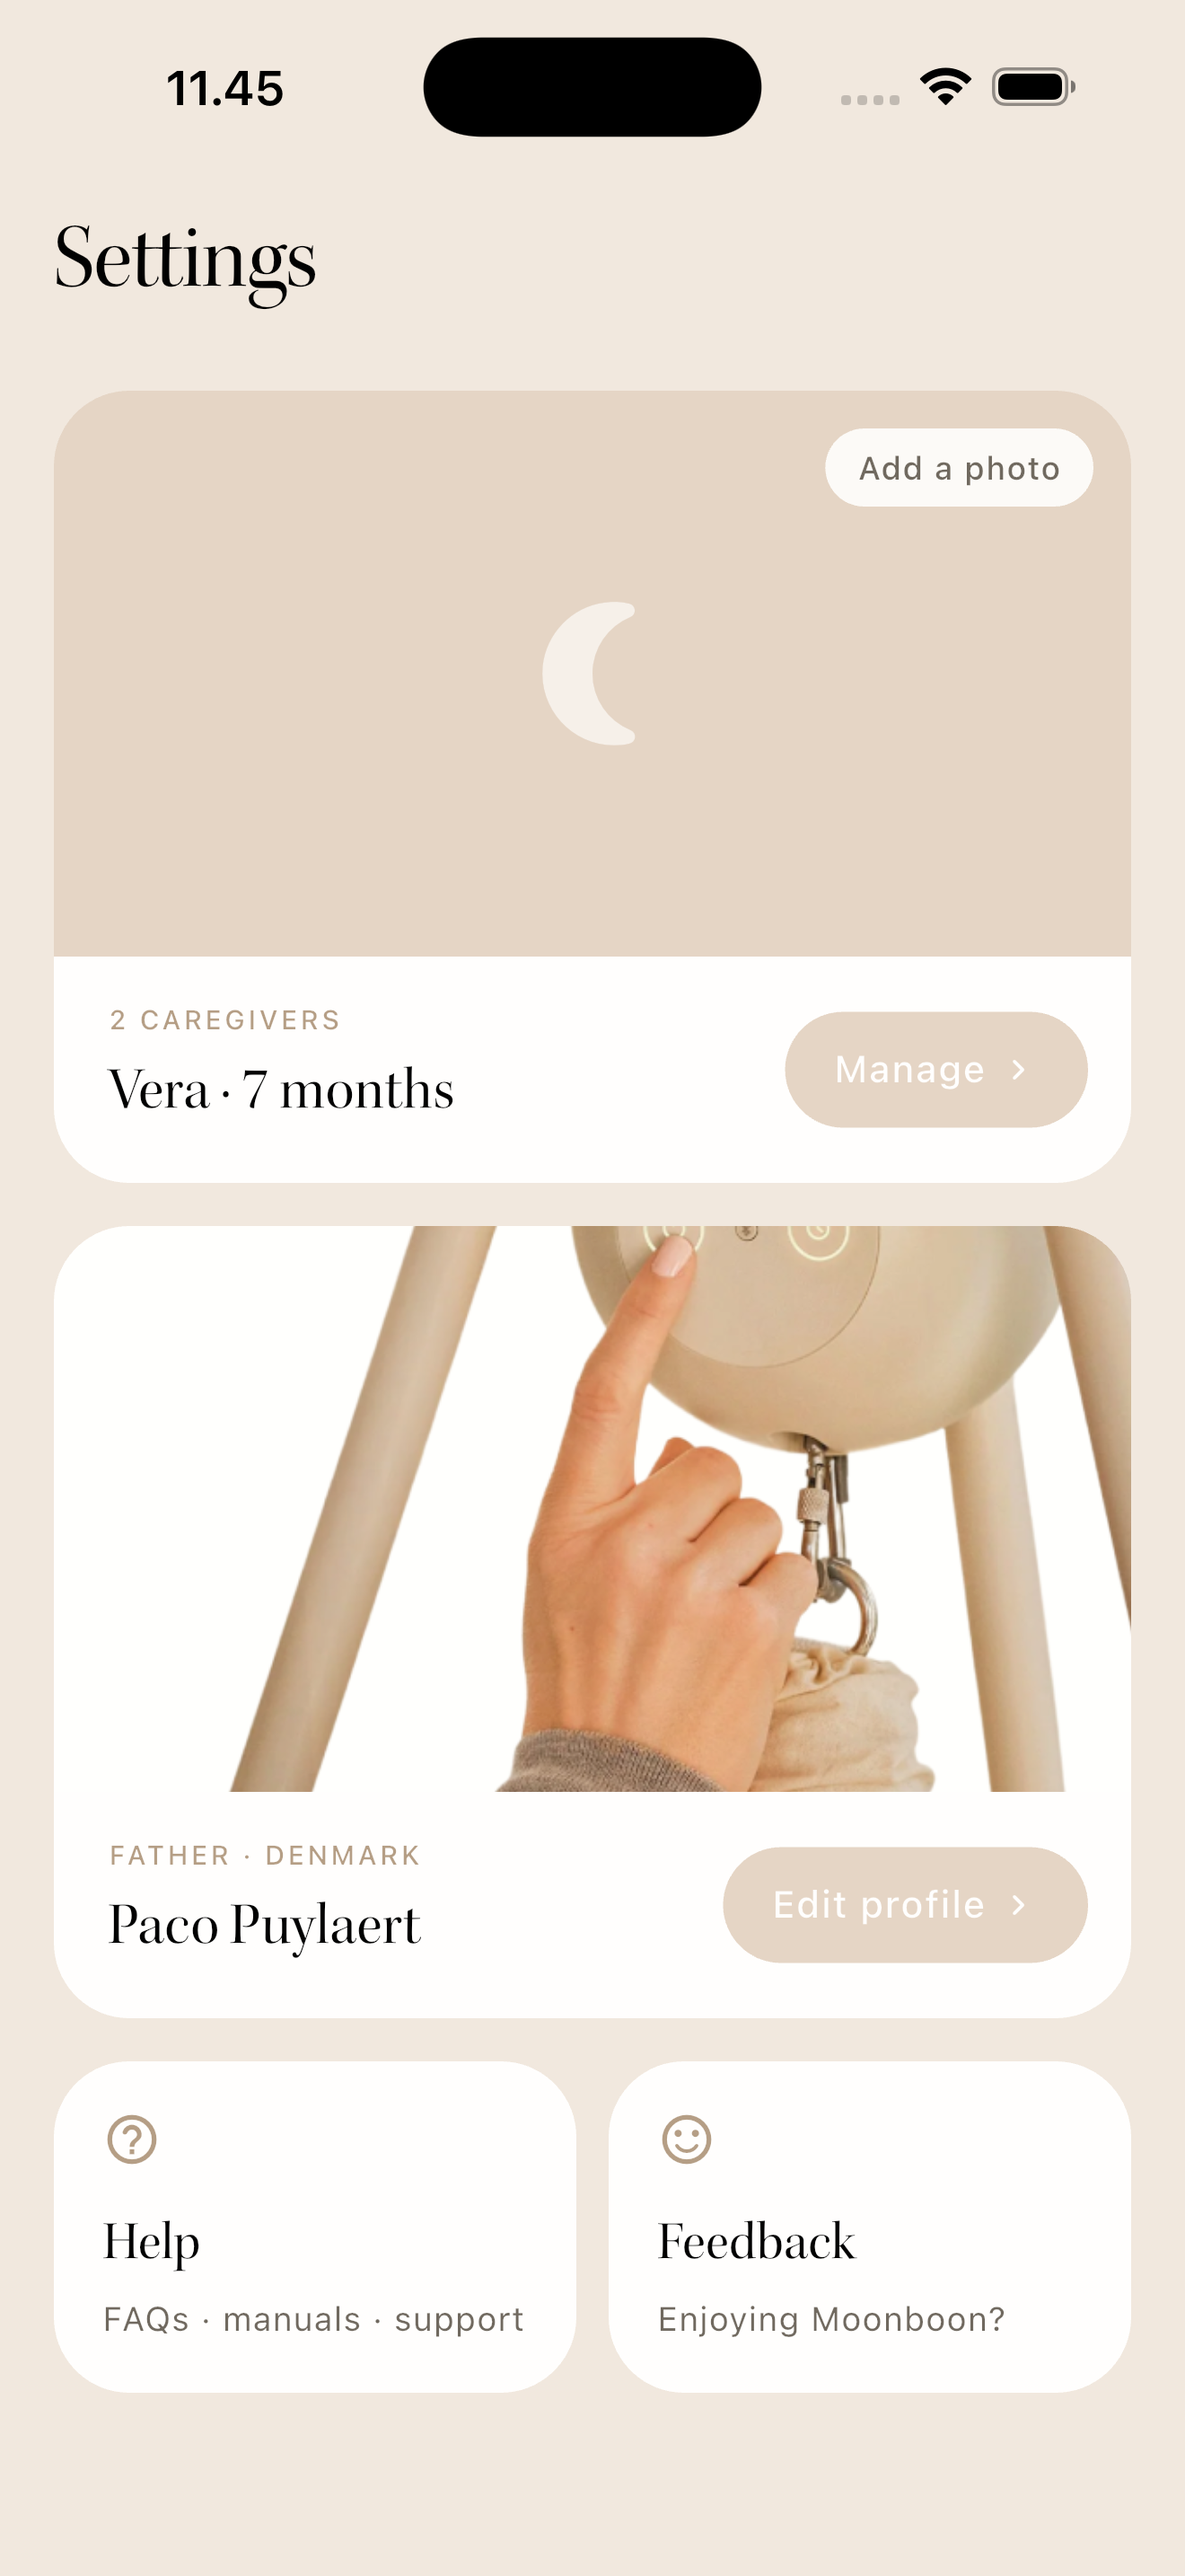
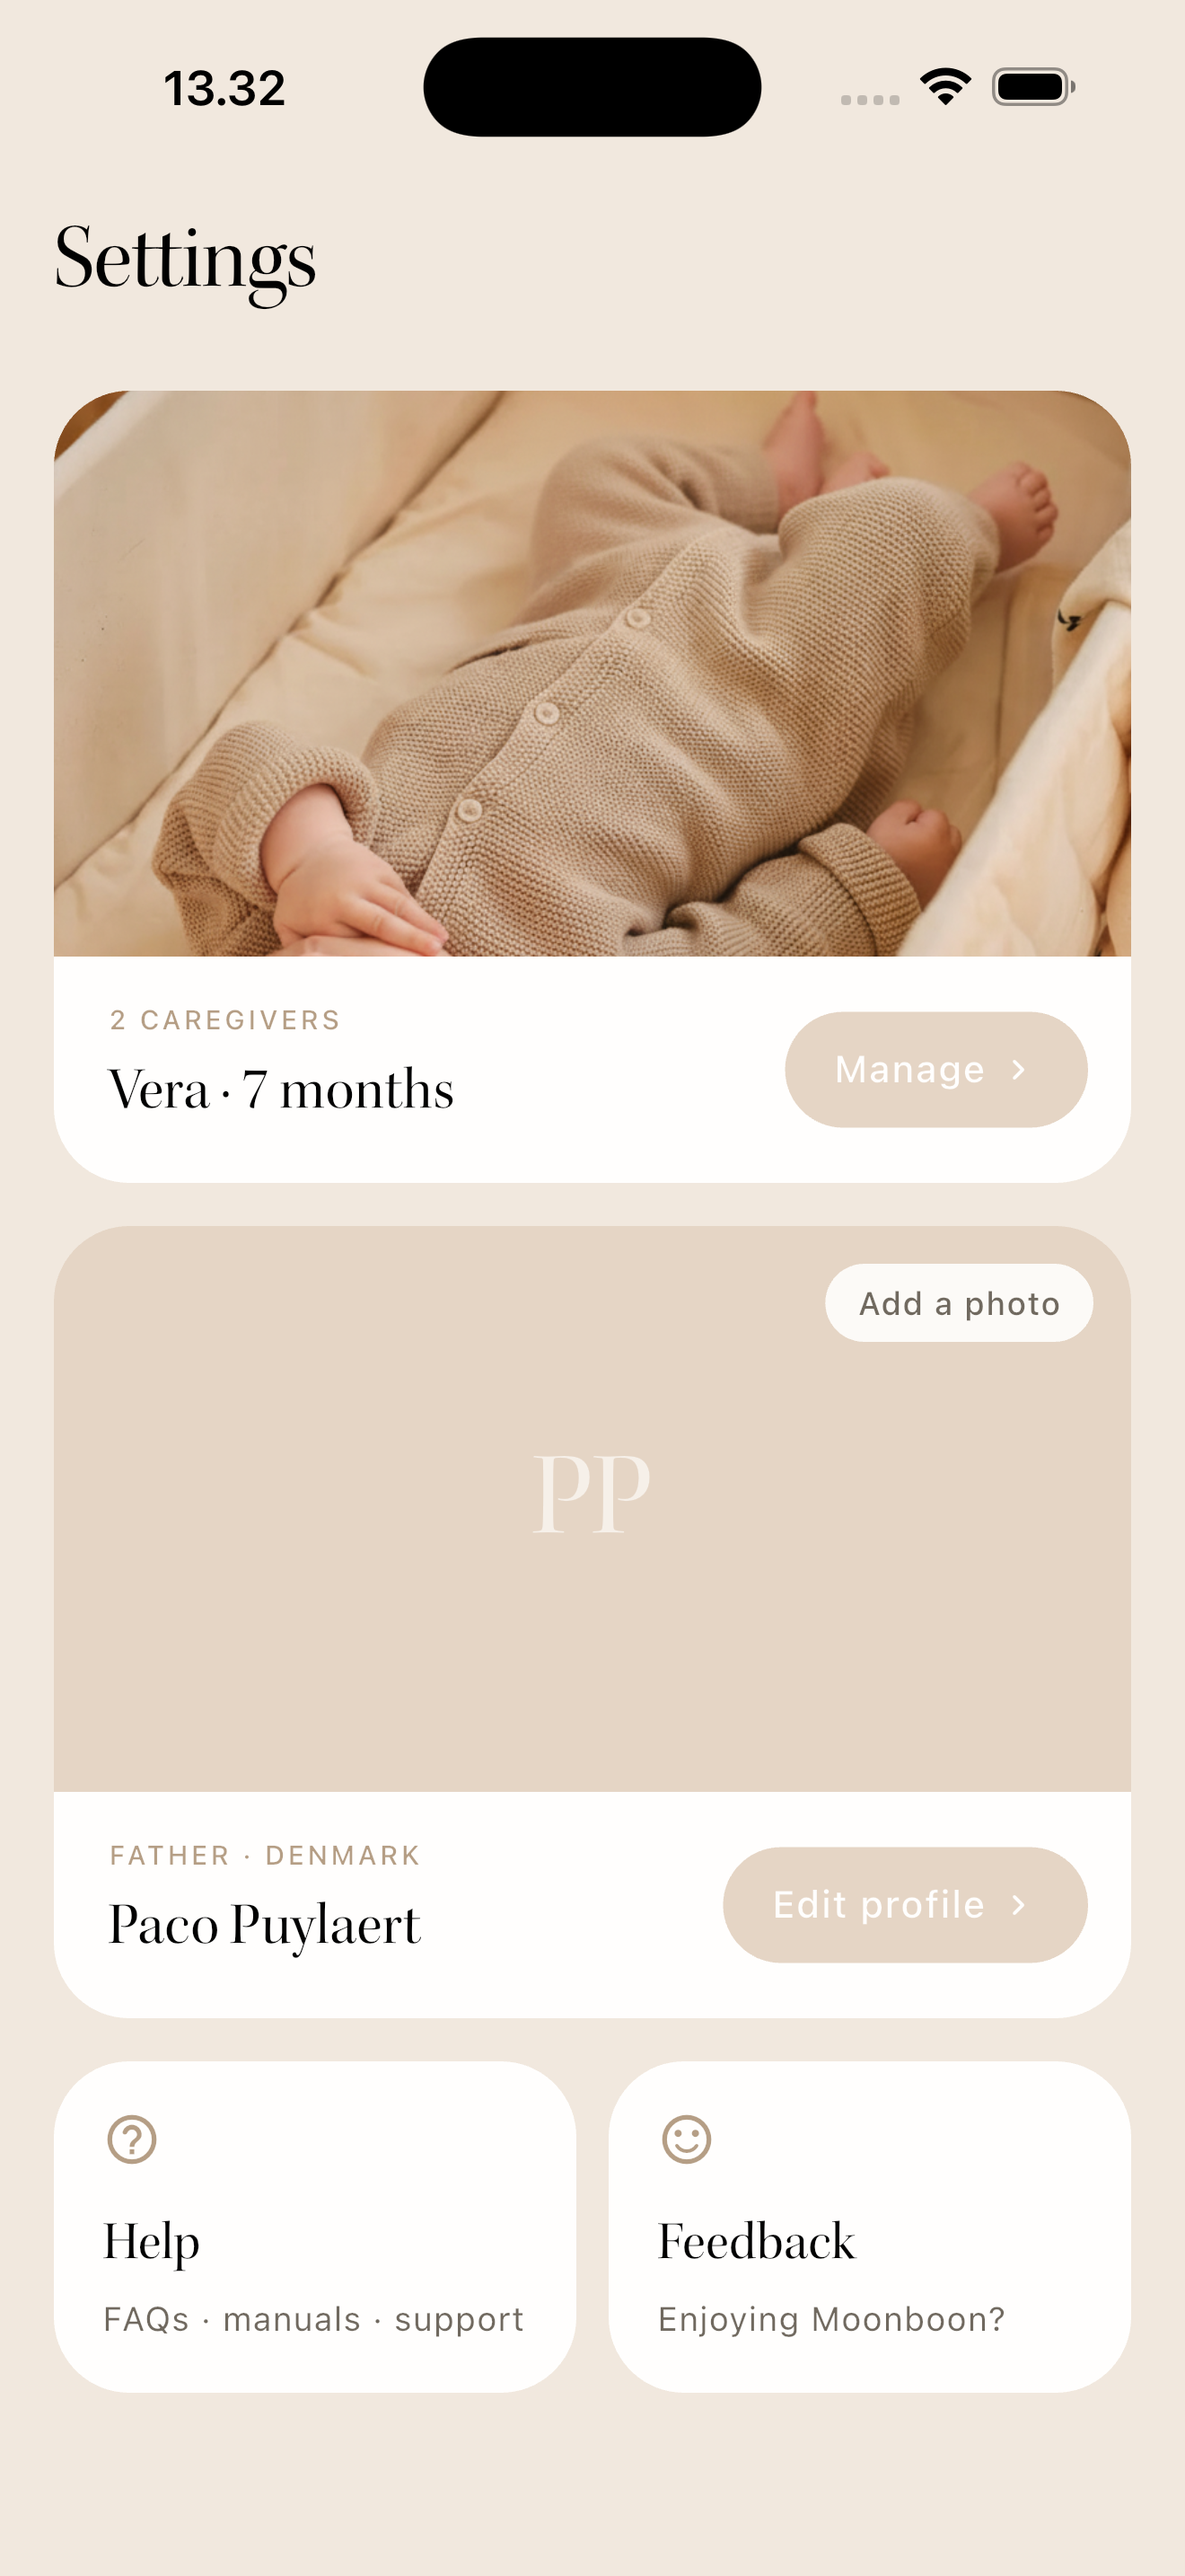
prototype(settings): critique-pass fixes for V4 + V5
V4: family card now uses the warm crib photo; You card demos the
first-class initials placeholder with "Add a photo" chip.
V5: Delete account added under Log out (spec hard constraint);
constellation raised to balance the layout. Deck updated to match.

diff --git a/lib/variants/settings/v4_photo_cards_page.dart b/lib/variants/settings/v4_photo_cards_page.dart
@@ -29,16 +29,31 @@ class _V4PhotoCardsPageState extends State<V4PhotoCardsPage> {
                   style: t.headlineLarge?.copyWith(fontSize: 34)),
               const SizedBox(height: 24),
 
-              // Family album card — no photo set yet → warm placeholder
+              // Family album card — warm in-context photography of Vera
+              _AlbumCard(
+                media: Image.asset(
+                  'assets/images/streaming_bg.png',
+                  fit: BoxFit.cover,
+                  alignment: Alignment.center,
+                ),
+                label: '2 CAREGIVERS',
+                title: 'Vera · 7 months',
+                action: 'Manage',
+              ),
+              const SizedBox(height: 16),
+
+              // You card — no photo set yet → first-class placeholder
               _AlbumCard(
                 media: Container(
                   color: c.surfaceTertiary,
                   child: Stack(
                     alignment: Alignment.center,
                     children: [
-                      Icon(Icons.nightlight_round,
-                          size: 64,
-                          color: c.textInverse.withValues(alpha: 0.65)),
+                      Text('PP',
+                          style: t.headlineLarge?.copyWith(
+                            fontSize: 44,
+                            color: c.textInverse.withValues(alpha: 0.65),
+                          )),
                       Positioned(
                         top: 14,
                         right: 14,
@@ -55,24 +70,6 @@ class _V4PhotoCardsPageState extends State<V4PhotoCardsPage> {
                         ),
                       ),
                     ],
-                  ),
-                ),
-                label: '2 CAREGIVERS',
-                title: 'Vera · 7 months',
-                action: 'Manage',
-              ),
-              const SizedBox(height: 16),
-
-              // You card — warm in-context photography
-              _AlbumCard(
-                media: ClipRect(
-                  child: Transform.scale(
-                    // Crop out the baked-in white rounded frame in the asset.
-                    scale: 1.35,
-                    child: Image.asset(
-                      'assets/images/motor_lifestyle.png',
-                      fit: BoxFit.cover,
-                    ),
                   ),
                 ),
                 label: 'FATHER · DENMARK',

diff --git a/lib/variants/settings/v5_constellation_page.dart b/lib/variants/settings/v5_constellation_page.dart
@@ -64,6 +64,10 @@ class _V5ConstellationPageState extends State<V5ConstellationPage> {
             const SizedBox(height: 18),
             Text('Log out',
                 style: t.labelMedium?.copyWith(color: c.textTertiary)),
+            const SizedBox(height: 12),
+            Text('Delete account',
+                style: t.labelSmall?.copyWith(
+                    color: c.feedbackError.withValues(alpha: 0.85))),
             const SizedBox(height: 24),
           ],
         ),
@@ -108,7 +112,7 @@ class _Constellation extends StatelessWidget {
     final c = context.color;
     final t = Theme.of(context).textTheme;
     return LayoutBuilder(builder: (context, box) {
-      final center = Offset(box.maxWidth / 2, box.maxHeight / 2 - 10);
+      final center = Offset(box.maxWidth / 2, box.maxHeight / 2 - 60);
       const orbit = 130.0;
       // Node angles (radians): Paco upper-left, Sofie upper-right,
       // invite lower-left so its thread stays clear of Vera's labels.

diff --git a/decks/settings-CU-86cavd37q/deck.md b/decks/settings-CU-86cavd37q/deck.md
@@ -101,9 +101,9 @@ _To be judged side-by-side below; each commits to a different structural archety
 | ![v4 light](v4_light.png) | ![v4 dark](v4_dark.png) |
 
 - **The bet:** extend the Devices-page photographic language to people — Settings feels like a family album, not admin.
-- **Optimizes:** brand continuity (strongest "feels Moonboon" of the five), makes adding a baby photo desirable ("Add a photo" chip on the placeholder), one visual system across tabs.
-- **Sacrifices:** density (two cards fill the viewport; Help/Feedback/log-out scroll) and depends on photo quality — day one most users have the moon placeholder.
-- **Open questions for PM:** what's the "You" card image when the user has no photo — lifestyle stock (as mocked) or initials? Is a 2-screen-tall Settings acceptable?
+- **Optimizes:** brand continuity (strongest "feels Moonboon" of the five), makes adding a photo desirable — both card states are shown: warm photo (Vera) and first-class initials placeholder with "Add a photo" chip (You).
+- **Sacrifices:** density (two cards fill the viewport; Help/Feedback/log-out scroll) and lives or dies by photo quality.
+- **Open questions for PM:** is a 2-screen-tall Settings acceptable? Do we prompt for a baby photo during onboarding to guarantee the album pays off day one?
 
 ### V5 — The Constellation · spatial map
 
@@ -114,7 +114,7 @@ _To be judged side-by-side below; each commits to a different structural archety
 - **The bet:** a family is a structure, not a list — draw it. Vera at the center, caregivers on hairline threads, owner chip visible, invite as an empty orbit slot.
 - **Optimizes:** instant who-has-access comprehension + memorability; the most differentiated Settings screen on the market.
 - **Sacrifices:** convention (edit affordances are non-obvious), scales poorly past ~4 members, and demotes profile/help into a dock.
-- **Open questions for PM:** does this earn its novelty, or is it a family-page pattern rather than the Settings root? Where do log-out/delete/version live credibly?
+- **Open questions for PM:** does this earn its novelty, or is it a family-page pattern rather than the Settings root? (Log out / delete account now live under the dock; version number still homeless.)
 
 ---
 
